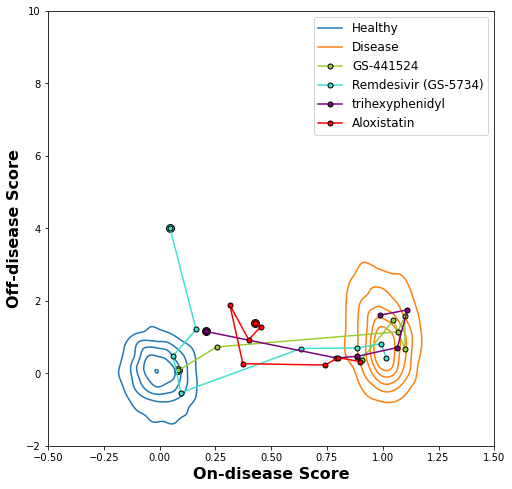
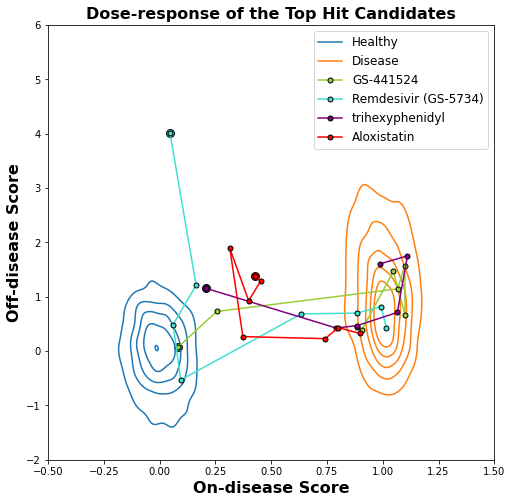
Updated last plot

diff --git a/Recursion_2019a_HRCE.html b/Recursion_2019a_HRCE.html
@@ -2290,7 +2290,7 @@ Overall: 0.509
 <span class="n">plt</span><span class="o">.</span><span class="n">ylabel</span><span class="p">(</span><span class="s1">&#39;Off-disease Score&#39;</span><span class="p">,</span> 
            <span class="n">fontdict</span><span class="o">=</span><span class="p">{</span><span class="s1">&#39;weight&#39;</span><span class="p">:</span> <span class="s1">&#39;bold&#39;</span><span class="p">,</span> <span class="s1">&#39;size&#39;</span><span class="p">:</span> <span class="mi">16</span><span class="p">});</span>
 <span class="n">plt</span><span class="o">.</span><span class="n">xlim</span><span class="p">(</span><span class="o">-</span><span class="mf">0.5</span><span class="p">,</span> <span class="mf">1.5</span><span class="p">);</span>
-<span class="n">plt</span><span class="o">.</span><span class="n">ylim</span><span class="p">(</span><span class="o">-</span><span class="mi">2</span><span class="p">,</span> <span class="mi">10</span><span class="p">);</span>
+<span class="n">plt</span><span class="o">.</span><span class="n">ylim</span><span class="p">(</span><span class="o">-</span><span class="mi">2</span><span class="p">,</span> <span class="mi">6</span><span class="p">);</span>
 
 <span class="n">lgnd</span> <span class="o">=</span> <span class="n">ax</span><span class="o">.</span><span class="n">get_legend</span><span class="p">()</span>
 <span class="n">handles</span> <span class="o">=</span> <span class="n">lgnd</span><span class="o">.</span><span class="n">legendHandles</span>
@@ -2313,6 +2313,9 @@ Overall: 0.509
 <span class="n">plt</span><span class="o">.</span><span class="n">legend</span><span class="p">(</span><span class="n">prop</span><span class="o">=</span><span class="p">{</span><span class="s1">&#39;size&#39;</span><span class="p">:</span><span class="mi">12</span><span class="p">},</span>
           <span class="n">handles</span> <span class="o">=</span> <span class="n">handles</span> <span class="o">+</span> <span class="n">handles2</span><span class="p">,</span> 
           <span class="n">labels</span><span class="o">=</span><span class="p">[</span><span class="s1">&#39;Healthy&#39;</span><span class="p">,</span> <span class="s1">&#39;Disease&#39;</span><span class="p">]</span><span class="o">+</span><span class="n">labels2</span><span class="p">);</span>
+
+<span class="n">plt</span><span class="o">.</span><span class="n">title</span><span class="p">(</span><span class="s1">&#39;Dose-response of the Top Hit Candidates&#39;</span><span class="p">,</span>
+         <span class="n">fontdict</span><span class="o">=</span><span class="p">{</span><span class="s1">&#39;weight&#39;</span><span class="p">:</span><span class="s1">&#39;bold&#39;</span><span class="p">,</span> <span class="s1">&#39;size&#39;</span><span class="p">:</span><span class="mi">16</span><span class="p">});</span>
 </pre></div>
 </div>
 </div>
